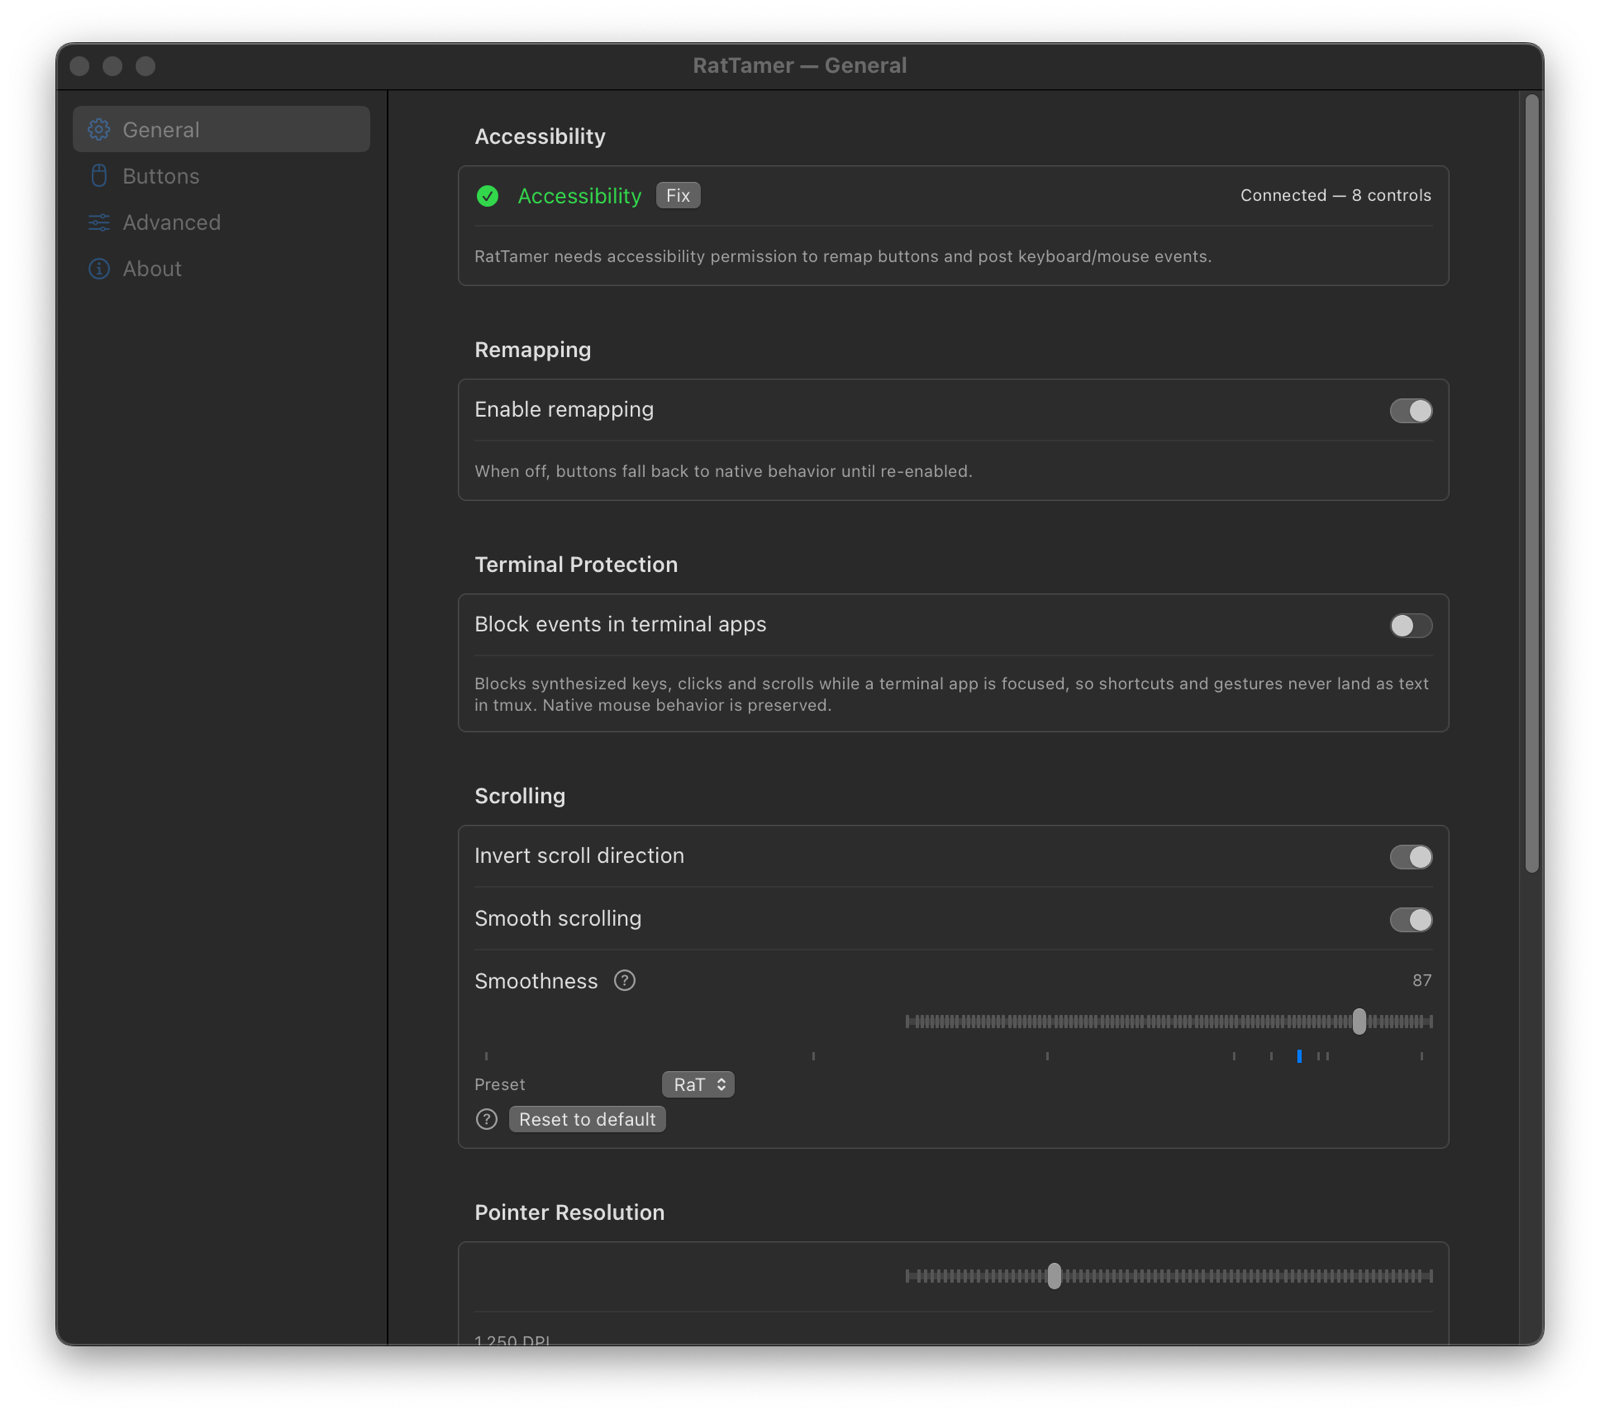
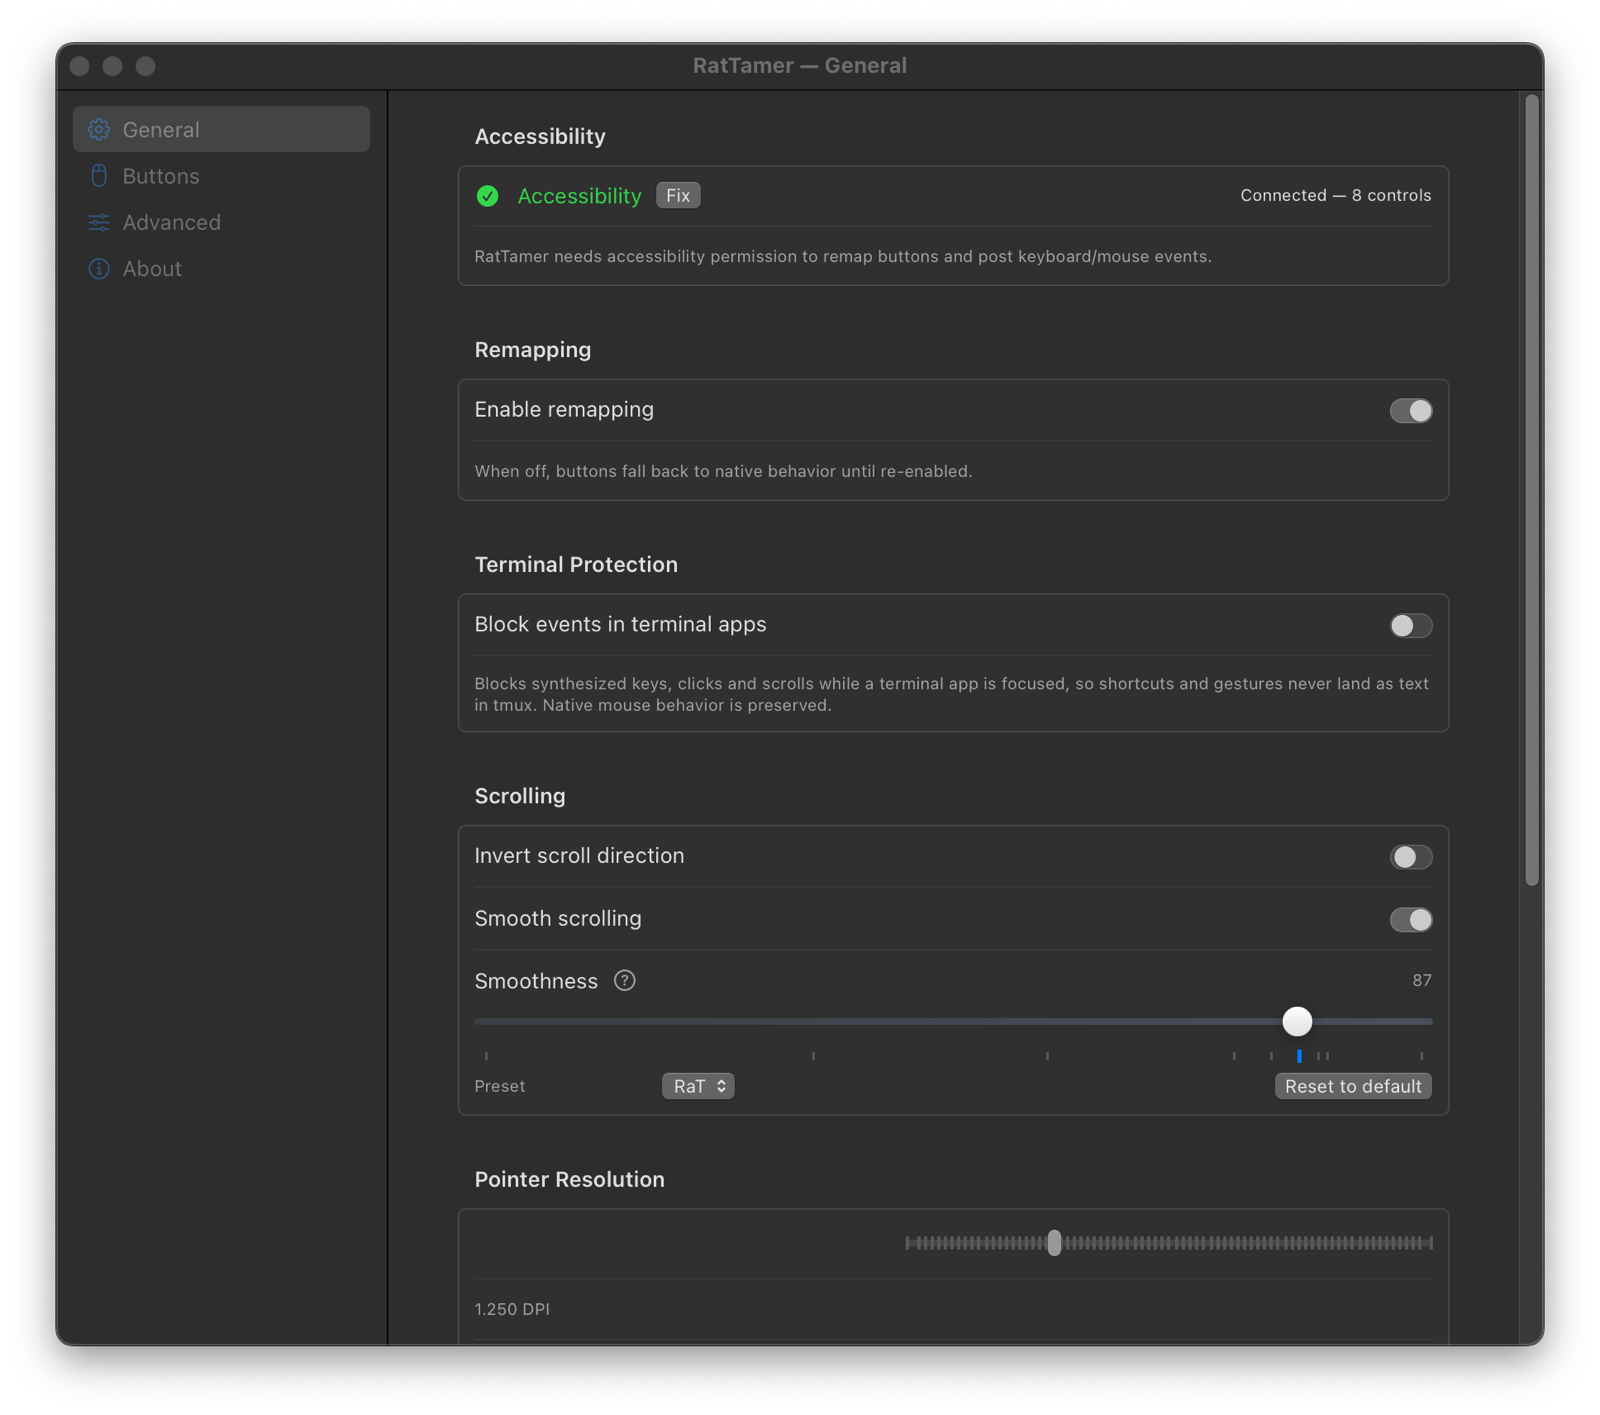
feat(ui): slider smoothness customizado (track gradiente, thumb branco, hover) — reset integrado a linha do Preset; screenshots atualizados

diff --git a/Sources/RatTamerApp/Views/PresetSlider.swift b/Sources/RatTamerApp/Views/PresetSlider.swift
@@ -1,6 +1,14 @@
 import SwiftUI
 import RatTamerCore
 
+private extension Color {
+    init(hex: UInt) {
+        self = Color(red: Double((hex >> 16) & 0xff) / 255,
+                     green: Double((hex >> 8) & 0xff) / 255,
+                     blue: Double(hex & 0xff) / 255)
+    }
+}
+
 /// The smoothness control: a native slider matching the other sliders in the
 /// app (`.small`, accent tint, 22pt tall) with a compact native preset menu
 /// below. When the level sits exactly on a preset, that preset is selected in
@@ -9,17 +17,14 @@ struct PresetSlider: View {
     @Binding var value: Double
     let currentLevel: Double?
     let onSelect: (SmoothnessPreset) -> Void
+    var onReset: () -> Void = {}
 
     var body: some View {
         VStack(alignment: .leading, spacing: 6) {
-            Slider(value: Binding(
+            GlueSlider(value: Binding(
                 get: { value },
                 set: { value = Self.glued($0) }
-            ), in: SmoothnessLevel.min...SmoothnessLevel.max, step: 1)
-            .controlSize(.small)
-            .tint(Color.accentColor)
-            .frame(height: 22)
-            .frame(maxWidth: .infinity)
+            ))
 
             presetRuler
 
@@ -36,7 +41,10 @@ struct PresetSlider: View {
                 .pickerStyle(.menu)
                 .controlSize(.small)
                 .frame(width: 120, alignment: .leading)
+                .help(HelpTexts.preset)
                 Spacer()
+                Button("Reset to default") { onReset() }
+                    .controlSize(.small)
             }
         }
     }
@@ -73,7 +81,48 @@ struct PresetSlider: View {
         return nearest.level
     }
 
-    /// The active preset when `currentLevel` lands exactly on one, otherwise
+/// The slider itself, drawn to match the web demo: thin gradient track,
+/// white thumb with a soft shadow that grows on hover/drag. Keyboard and
+/// VoiceOver users still get a native Slider via accessibilityRepresentation.
+private struct GlueSlider: View {
+    @Binding var value: Double
+    @State private var active = false
+
+    private let knob: CGFloat = 18
+    private var span: Double { SmoothnessLevel.max - SmoothnessLevel.min }
+
+    var body: some View {
+        GeometryReader { geo in
+            let travel = geo.size.width - knob
+            ZStack(alignment: .leading) {
+                Capsule()
+                    .fill(LinearGradient(colors: [Color(hex: 0x3a3f47), Color(hex: 0x4a505a)],
+                                         startPoint: .leading, endPoint: .trailing))
+                    .frame(height: 4)
+                Circle()
+                    .fill(LinearGradient(colors: [.white, Color(white: 0.87)], startPoint: .top, endPoint: .bottom))
+                    .frame(width: knob, height: knob)
+                    .shadow(color: .black.opacity(0.35), radius: 5, y: 2)
+                    .scaleEffect(active ? 1.1 : 1)
+                    .offset(x: travel * CGFloat((value - SmoothnessLevel.min) / span))
+            }
+            .frame(maxHeight: .infinity)
+            .contentShape(Rectangle())
+            .gesture(DragGesture(minimumDistance: 0).onChanged { g in
+                active = true
+                let frac = min(1, max(0, (g.location.x - knob / 2) / max(travel, 1)))
+                value = SmoothnessLevel.min + Double(frac) * span
+            }.onEnded { _ in active = false })
+        }
+        .frame(height: 22)
+        .onHover { active = $0 }
+        .accessibilityRepresentation {
+            Slider(value: $value, in: SmoothnessLevel.min...SmoothnessLevel.max, step: 1)
+        }
+    }
+}
+
+/// The active preset when `currentLevel` lands exactly on one, otherwise
     /// nil ("Custom"). Choosing a preset forwards to `onSelect`.
     private var presetSelection: Binding<SmoothnessPreset?> {
         Binding(

diff --git a/Sources/RatTamerApp/Views/GeneralTabView.swift b/Sources/RatTamerApp/Views/GeneralTabView.swift
@@ -399,13 +399,8 @@ struct SmoothScrollRow: View {
                         PresetSlider(value: Binding(get: { displayedLevel },
                                                     set: { setLevel($0) }),
                                      currentLevel: level,
-                                     onSelect: { applyPreset($0) })
-                        HStack(spacing: 6) {
-                            HelpButton(text: HelpTexts.preset)
-                            Button("Reset to default") { resetToDefault() }
-                                .controlSize(.small)
-                            Spacer()
-                        }
+                                     onSelect: { applyPreset($0) },
+                                     onReset: { resetToDefault() })
                     }
                 }
             }

diff --git a/Sources/RatTamerApp/Views/AdvancedTabView.swift b/Sources/RatTamerApp/Views/AdvancedTabView.swift
@@ -61,13 +61,8 @@ struct AdvancedTabView: View {
                     PresetSlider(value: Binding(get: { displayedLevel },
                                                 set: { setLevel($0) }),
                                  currentLevel: level,
-                                 onSelect: { applyPreset($0) })
-                    HStack(spacing: 6) {
-                        HelpButton(text: HelpTexts.preset)
-                        Button("Reset to default") { resetToDefault() }
-                            .controlSize(.small)
-                        Spacer()
-                    }
+                                 onSelect: { applyPreset($0) },
+                                 onReset: { resetToDefault() })
                 }
                 advancedPanel
                     .disabled(!enabled)
